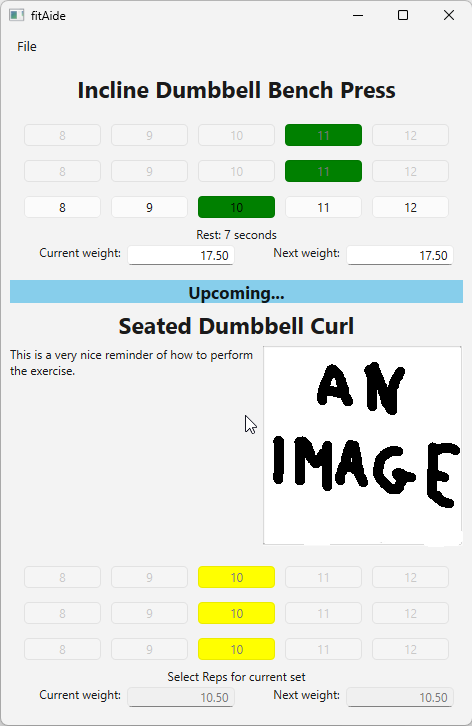
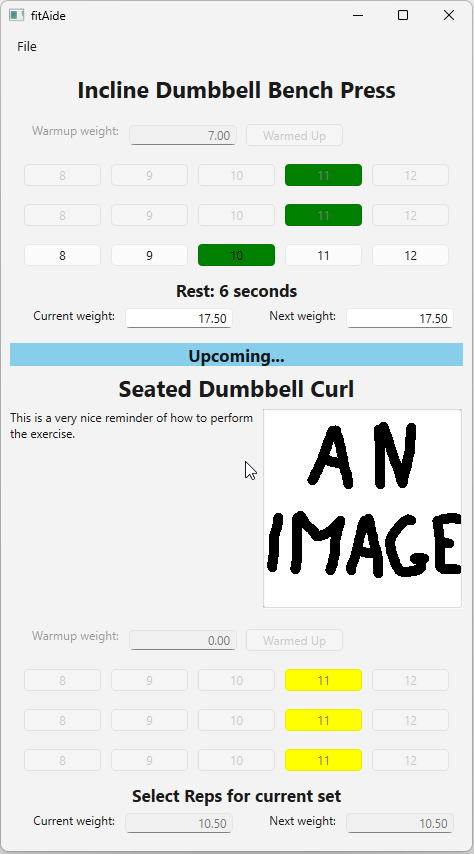
Renamed variables from 'pause' to 'rest'

diff --git a/src/database/database.cpp b/src/database/database.cpp
@@ -67,7 +67,7 @@ bool Database::initialize()
             NumSets          INTEGER DEFAULT 3,
             MinReps          INTEGER DEFAULT 8,
             MaxReps          INTEGER DEFAULT 12,
-            PauseSeconds     INTEGER DEFAULT 120
+            RestSeconds      INTEGER DEFAULT 120
         );
     )";
     if (!executeQuery(createSettings)) return false;
@@ -134,17 +134,17 @@ bool Database::hasExercises()
     return false;
 }
 
-bool Database::insertSettings(int numSets, int minReps, int maxReps, int pauseSeconds)
+bool Database::insertSettings(int numSets, int minReps, int maxReps, int restSeconds)
 {
     sqlite3_stmt* stmt;
-    const char* query = "INSERT OR REPLACE INTO Settings (user_id, NumSets, MinReps, MaxReps, PauseSeconds) "
+    const char* query = "INSERT OR REPLACE INTO Settings (user_id, NumSets, MinReps, MaxReps, RestSeconds) "
                         "VALUES (0, ?, ?, ?, ?);";
     if (sqlite3_prepare_v2(db_, query, -1, &stmt, nullptr) != SQLITE_OK) return false;
 
     sqlite3_bind_int(stmt, 1, numSets);
     sqlite3_bind_int(stmt, 2, minReps);
     sqlite3_bind_int(stmt, 3, maxReps);
-    sqlite3_bind_int(stmt, 4, pauseSeconds);
+    sqlite3_bind_int(stmt, 4, restSeconds);
 
     bool ok = (sqlite3_step(stmt) == SQLITE_DONE);
     sqlite3_finalize(stmt);
@@ -275,10 +275,10 @@ bool Database::insertWorkoutData(const WorkoutData& workoutData, const std::stri
     return allOk;
 }
 
-bool Database::getSettings(int& numSets, int& minReps, int& maxReps, int& pauseSeconds)
+bool Database::getSettings(int& numSets, int& minReps, int& maxReps, int& restSeconds)
 {
     sqlite3_stmt* stmt;
-    const char* query = "SELECT NumSets, MinReps, MaxReps, PauseSeconds FROM Settings WHERE user_id = 0;";
+    const char* query = "SELECT NumSets, MinReps, MaxReps, RestSeconds FROM Settings WHERE user_id = 0;";
     if (sqlite3_prepare_v2(db_, query, -1, &stmt, nullptr) != SQLITE_OK) return false;
 
     if (sqlite3_step(stmt) == SQLITE_ROW)
@@ -286,7 +286,7 @@ bool Database::getSettings(int& numSets, int& minReps, int& maxReps, int& pauseS
         numSets      = sqlite3_column_int(stmt, 0);
         minReps      = sqlite3_column_int(stmt, 1);
         maxReps      = sqlite3_column_int(stmt, 2);
-        pauseSeconds = sqlite3_column_int(stmt, 3);
+        restSeconds  = sqlite3_column_int(stmt, 3);
         sqlite3_finalize(stmt);
         return true;
     }
@@ -301,7 +301,7 @@ Database::WorkoutData Database::loadWorkoutData()
     // 1. Load settings
     {
         sqlite3_stmt* stmt = nullptr;
-        const char* q = "SELECT NumSets, MinReps, MaxReps, PauseSeconds FROM Settings WHERE user_id = 0;";
+        const char* q = "SELECT NumSets, MinReps, MaxReps, RestSeconds FROM Settings WHERE user_id = 0;";
         if (sqlite3_prepare_v2(db_, q, -1, &stmt, nullptr) == SQLITE_OK)
         {
             if (sqlite3_step(stmt) == SQLITE_ROW)
@@ -309,7 +309,7 @@ Database::WorkoutData Database::loadWorkoutData()
                 workout.numSets      = sqlite3_column_int(stmt, 0);
                 workout.minReps      = sqlite3_column_int(stmt, 1);
                 workout.maxReps      = sqlite3_column_int(stmt, 2);
-                workout.pauseSeconds = sqlite3_column_int(stmt, 3);
+                workout.restSeconds  = sqlite3_column_int(stmt, 3);
             }
             sqlite3_finalize(stmt);
         }

diff --git a/src/dialogs/settingsdialog.cpp b/src/dialogs/settingsdialog.cpp
@@ -49,19 +49,19 @@ SettingsDialog::SettingsDialog(Database& db, QWidget* parent)
     layout->addWidget(maxRepsSpin_);
     layout->addWidget(maxRepsSlider_);
 
-    // Pause
-    pauseSpin_ = new QSpinBox(this);
-    pauseSpin_->setRange(120, 300);
-    pauseSpin_->setValue(120);
-    pauseSpin_->setSuffix(" seconds");
-    pauseSlider_ = new QSlider(Qt::Horizontal, this);
-    pauseSlider_->setRange(120, 300);
-    pauseSlider_->setValue(120);
-    connect(pauseSlider_, &QSlider::valueChanged, pauseSpin_, &QSpinBox::setValue);
-    connect(pauseSpin_, &QSpinBox::valueChanged, pauseSlider_, &QSlider::setValue);
-    layout->addWidget(new QLabel("Pause Between Sets (120-300):", this));
-    layout->addWidget(pauseSpin_);
-    layout->addWidget(pauseSlider_);
+    // Rest
+    restSpin_ = new QSpinBox(this);
+    restSpin_->setRange(120, 300);
+    restSpin_->setValue(120);
+    restSpin_->setSuffix(" seconds");
+    restSlider_ = new QSlider(Qt::Horizontal, this);
+    restSlider_->setRange(120, 300);
+    restSlider_->setValue(120);
+    connect(restSlider_, &QSlider::valueChanged, restSpin_, &QSpinBox::setValue);
+    connect(restSpin_, &QSpinBox::valueChanged, restSlider_, &QSlider::setValue);
+    layout->addWidget(new QLabel("Rest Between Sets (120-300):", this));
+    layout->addWidget(restSpin_);
+    layout->addWidget(restSlider_);
 
     // Done Button
     auto* buttonLayout = new QHBoxLayout();
@@ -77,13 +77,13 @@ bool SettingsDialog::saveSettings()
     int numSets = numSetsSpin_->value();
     int minReps = minRepsSpin_->value();
     int maxReps = maxRepsSpin_->value();
-    int pauseSeconds = pauseSpin_->value();
+    int restSeconds = restSpin_->value();
     if (minReps > maxReps)
     {
         QMessageBox::warning(this, "Error", "Minimum reps cannot exceed maximum reps");
         return false;
     }
-    return db_.insertSettings(numSets, minReps, maxReps, pauseSeconds);
+    return db_.insertSettings(numSets, minReps, maxReps, restSeconds);
 }
 
 void SettingsDialog::onDoneClicked()

diff --git a/src/widgets/exerciserecord.cpp b/src/widgets/exerciserecord.cpp
@@ -7,7 +7,7 @@
 ExerciseRecord::ExerciseRecord(int numSets,
                                int minReps,
                                int maxReps,
-                               int pauseSeconds,
+                               int restSeconds,
                                const std::vector<int>& currentReps,
                                Database::WorkoutData::ExerciseEntry* entry,
                                bool isWorkoutFinale,
@@ -16,7 +16,7 @@ ExerciseRecord::ExerciseRecord(int numSets,
       numSets_(numSets),
       minReps_(minReps),
       maxReps_(maxReps),
-      pauseSeconds_(pauseSeconds),
+      restSeconds_(restSeconds),
       currentReps_(currentReps),
       entry_(entry),
       isWorkoutFinale_(isWorkoutFinale),
@@ -167,10 +167,10 @@ void ExerciseRecord::startRestTimer()
     if (timerIsRunning_) return;
     timerIsRunning_ = true;
 
-    if (pauseSeconds_ > 0 && restTimer_)
+    if (restSeconds_ > 0 && restTimer_)
     {
         restPrefix_ = isWorkoutFinale_ ? "Exiting in" : "Rest";
-        timerRemainingSeconds_ = pauseSeconds_;
+        timerRemainingSeconds_ = restSeconds_;
         startARestTimerSecond();
     }
 

diff --git a/src/database/database.hpp b/src/database/database.hpp
@@ -38,7 +38,7 @@ public:
         int numSets = 3;
         int minReps = 8;
         int maxReps = 12;
-        int pauseSeconds = 120;
+        int restSeconds = 120;
     };
 
     bool initialize();
@@ -47,9 +47,9 @@ public:
     bool insertExercise(const std::string& name, const std::string& description,
                         const void* imageData = nullptr, int imageSize = 0,
                         DbError* outError = nullptr);
-    bool insertSettings(int numSets, int minReps, int maxReps, int pauseSeconds);
+    bool insertSettings(int numSets, int minReps, int maxReps, int restSeconds);
     bool insertWorkoutData(const WorkoutData& workoutData, const std::string& workoutTime);
-    bool getSettings(int& numSets, int& minReps, int& maxReps, int& pauseSeconds);
+    bool getSettings(int& numSets, int& minReps, int& maxReps, int& restSeconds);
     WorkoutData loadWorkoutData();
     sqlite3* getDb() { return db_; }
 

diff --git a/src/widgets/exerciserecord.hpp b/src/widgets/exerciserecord.hpp
@@ -23,7 +23,7 @@ public:
     explicit ExerciseRecord(int numSets,
                             int minReps,
                             int maxReps,
-                            int pauseSeconds,
+                            int restSeconds,
                             const std::vector<int>& currentReps,
                             Database::WorkoutData::ExerciseEntry* entry,
                             bool isWorkoutFinale,
@@ -56,7 +56,7 @@ private:
     int numSets_ = 0;
     int minReps_;
     int maxReps_;
-    int pauseSeconds_;
+    int restSeconds_;
     std::vector<int> currentReps_;
     Database::WorkoutData::ExerciseEntry* entry_ = nullptr;
     bool isWorkoutFinale_ = false;

diff --git a/src/views/workoutview.cpp b/src/views/workoutview.cpp
@@ -76,7 +76,7 @@ void WorkoutView::createExerciseWidgets(int index,
     headOut = new ExerciseHead(QString::fromStdString(entry->name));
     instructOut = new ExerciseInstruct(QString::fromStdString(entry->description), entry->image);
     recordOut = new ExerciseRecord(workoutData_.numSets, workoutData_.minReps, workoutData_.maxReps,
-                                   workoutData_.pauseSeconds, entry->setReps, entry, isWorkoutFinale_, this);
+                                   workoutData_.restSeconds, entry->setReps, entry, isWorkoutFinale_, this);
 
     connect(recordOut, &ExerciseRecord::finalRestStarted,
             this, &WorkoutView::onExerciseFinalRestStarted);

diff --git a/src/dialogs/settingsdialog.hpp b/src/dialogs/settingsdialog.hpp
@@ -23,8 +23,8 @@ private:
     QSlider* minRepsSlider_;
     QSpinBox* maxRepsSpin_;
     QSlider* maxRepsSlider_;
-    QSpinBox* pauseSpin_;
-    QSlider* pauseSlider_;
+    QSpinBox* restSpin_;
+    QSlider* restSlider_;
     QPushButton* doneButton_;
     bool saveSettings();
 };
